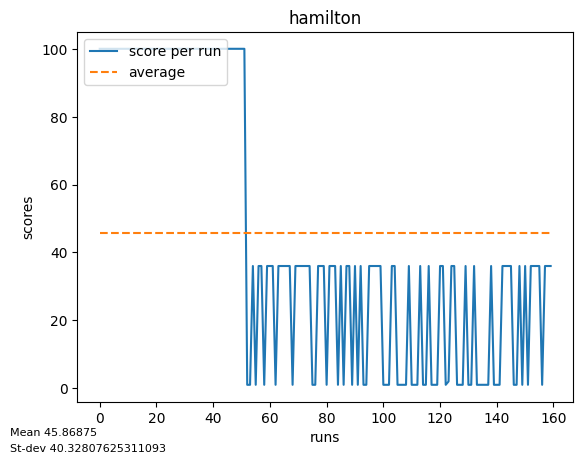
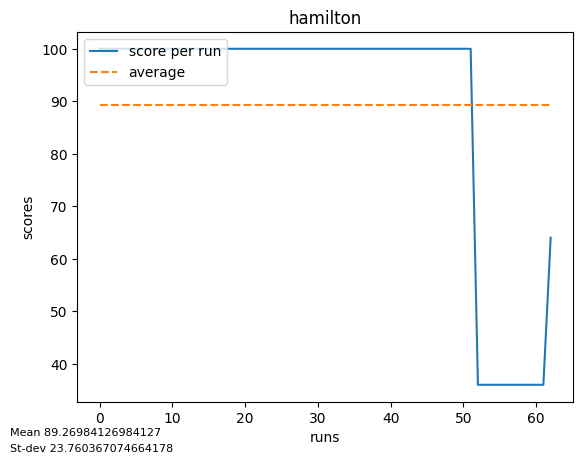
H.Cycles working. Time complexity woeful with scale

diff --git a/game/models/domain_specific/hamilton_ai_solver.py b/game/models/domain_specific/hamilton_ai_solver.py
@@ -31,10 +31,9 @@ class HamiltonSolver(BaseGameModel):
                 return_action = hamilton_path[0].action
                 break
             elif node.point.x == self.starting_node.point.x and node.point.y == self.starting_node.point.y:
-                # self.starting_node = hamilton_path[next_index]
                 return_action = hamilton_path[next_index].action
                 break
-
+        environment.snake_action = Action.get_reverse(return_action)
         return Action.get_reverse(return_action)
 
 
@@ -51,19 +50,19 @@ class HamiltonSolver(BaseGameModel):
         is_first_column = x==1
         is_last_column = x==self.num_rows
 
-        if not is_first_row:
+        if not is_first_row and previous_node.action != Action.UP:
             neighbouring_points.append(Node(Point(x,y-1), action=Action.DOWN, previous_node=previous_node))
-        if not is_last_row:
+        if not is_last_row and previous_node.action != Action.DOWN:
             neighbouring_points.append(Node(Point(x, y + 1), action=Action.UP, previous_node=previous_node))
-        if not is_first_column:
+        if not is_first_column and previous_node.action != Action.LEFT:
             neighbouring_points.append(Node(Point(x-1, y), action=Action.RIGHT, previous_node=previous_node))
-        if not is_last_column:
+        if not is_last_column and previous_node.action != Action.RIGHT:
             neighbouring_points.append(Node(Point(x+1,y), action=Action.LEFT, previous_node=previous_node))
-        random.shuffle(neighbouring_points)
+
         return neighbouring_points
 
 
-    def node_in_path(self, node, path):
+    def node_in_path(self, node, path, path_dict):
         for path_node in path:
             if node.equal(path_node):
                 return True
@@ -71,7 +70,7 @@ class HamiltonSolver(BaseGameModel):
 
 
 
-    def get_hamiltonian_path(self, current_node, path):
+    def get_hamiltonian_path(self, current_node, path, path_dict):
         length_before_recursion = len(path)
         neighbours = self.get_neighbours(current_node)
         max_recursion_reached = len(path) == self.num_rows**2
@@ -143,19 +142,19 @@ class HamiltonSolver(BaseGameModel):
         starting_y = head.point.y
 
         # Move the snake to somewhere where the longest path will be defined
-        environment.tiles[head.point.y][head.point.x] = Tile.empty
-        head.action = Action.LEFT
-        head.point.x = 3
-        head.point.y = 1
-
-        tail.point.x = 4
-        tail.point.y = 1
-        tail.action=None
-
-        environment.snake[0].x = 3
-        environment.snake[0].y = 1
-        environment.snake_action = Action.LEFT
-        environment.tiles[1][3] = Tile.snake
+        # environment.tiles[head.point.y][head.point.x] = Tile.empty
+        # head.action = Action.LEFT
+        # head.point.x = 3
+        # head.point.y = 1
+        #
+        # tail.point.x = 4
+        # tail.point.y = 1
+        # tail.action=None
+        #
+        # environment.snake[0].x = 3
+        # environment.snake[0].y = 1
+        # environment.snake_action = Action.LEFT
+        # environment.tiles[1][3] = Tile.snake
 
         # find the hamiltonian path
         path = []
@@ -187,15 +186,15 @@ class HamiltonSolver(BaseGameModel):
 
 
        # move the snake back to where it started in the game
-        environment.tiles[1][3] = Tile.empty
-        environment.tiles[starting_y][starting_x] = Tile.snake
-
-        start_point = Point(starting_x, starting_y)
-        environment.snake[0] = start_point
-        start_node = Node(start_point)
-        self.rotate_cycle(self.hamilton_path,start_node)
-        self.starting_node = self.hamilton_path[0]
-        environment.snake_action = self.starting_node.action
+       #  environment.tiles[1][3] = Tile.empty
+       #  environment.tiles[starting_y][starting_x] = Tile.snake
+       #
+       #  start_point = Point(starting_x, starting_y)
+       #  environment.snake[0] = start_point
+       #  start_node = Node(start_point)
+        # self.rotate_cycle(self.hamilton_path,start_node)
+        # self.starting_node = self.hamilton_path[0]
+        # environment.snake_action = Action.get_reverse(self.hamilton_path[0].action)
         return self.hamilton_path
 
 

diff --git a/game/environment/environment.py b/game/environment/environment.py
@@ -44,6 +44,7 @@ class Environment:
     def step(self, action: Action):
         if Action.is_reverse(self.snake_action, action):
             # print "Forbidden reverse action attempt!"
+            print("Reverse action error triggered")
             return
         self.snake_action = action
         head = self.snake[0]
